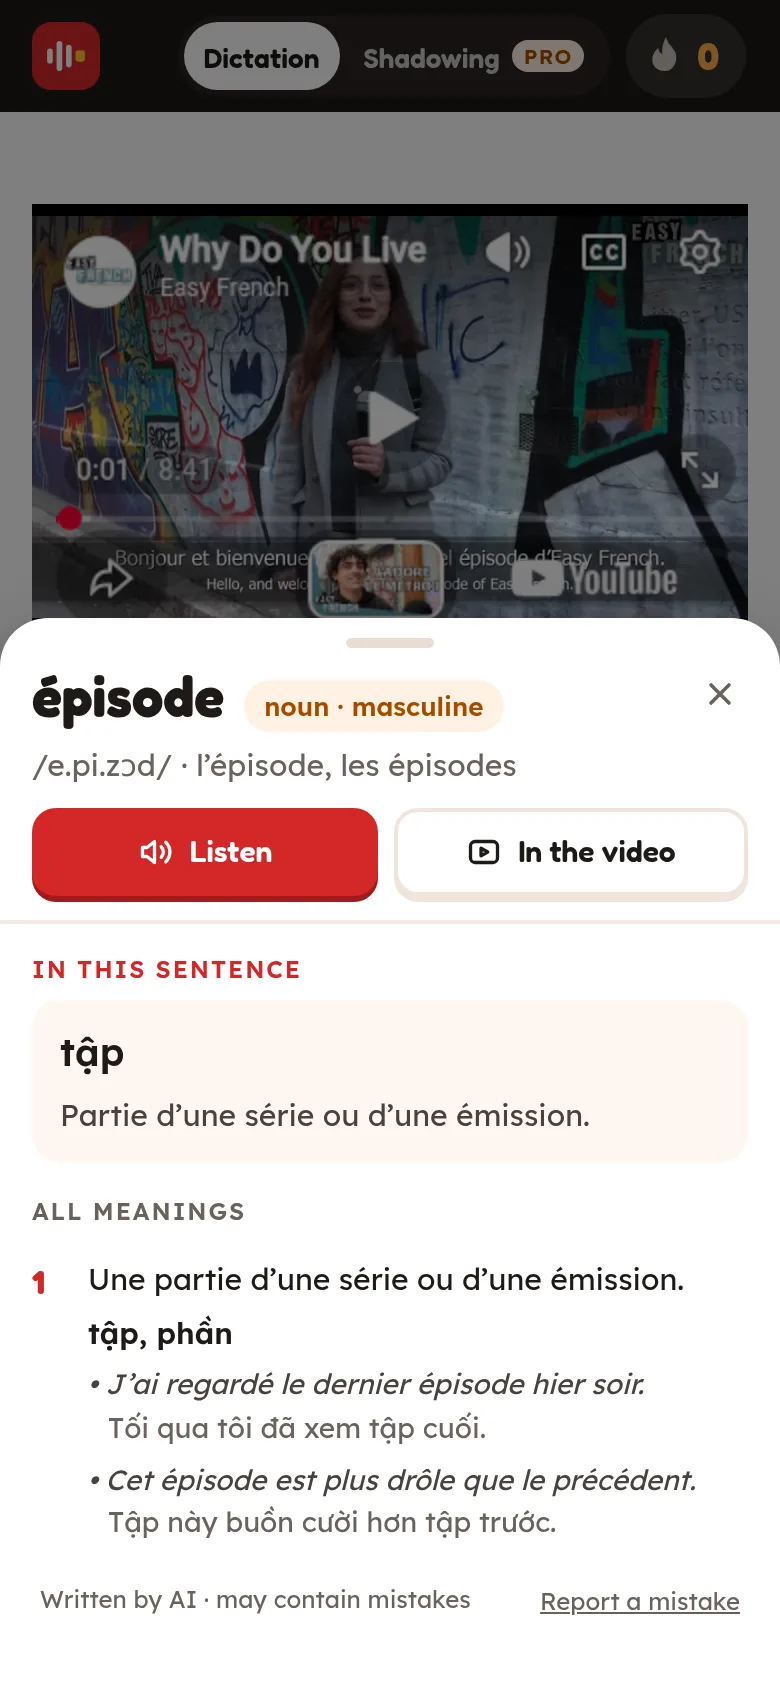
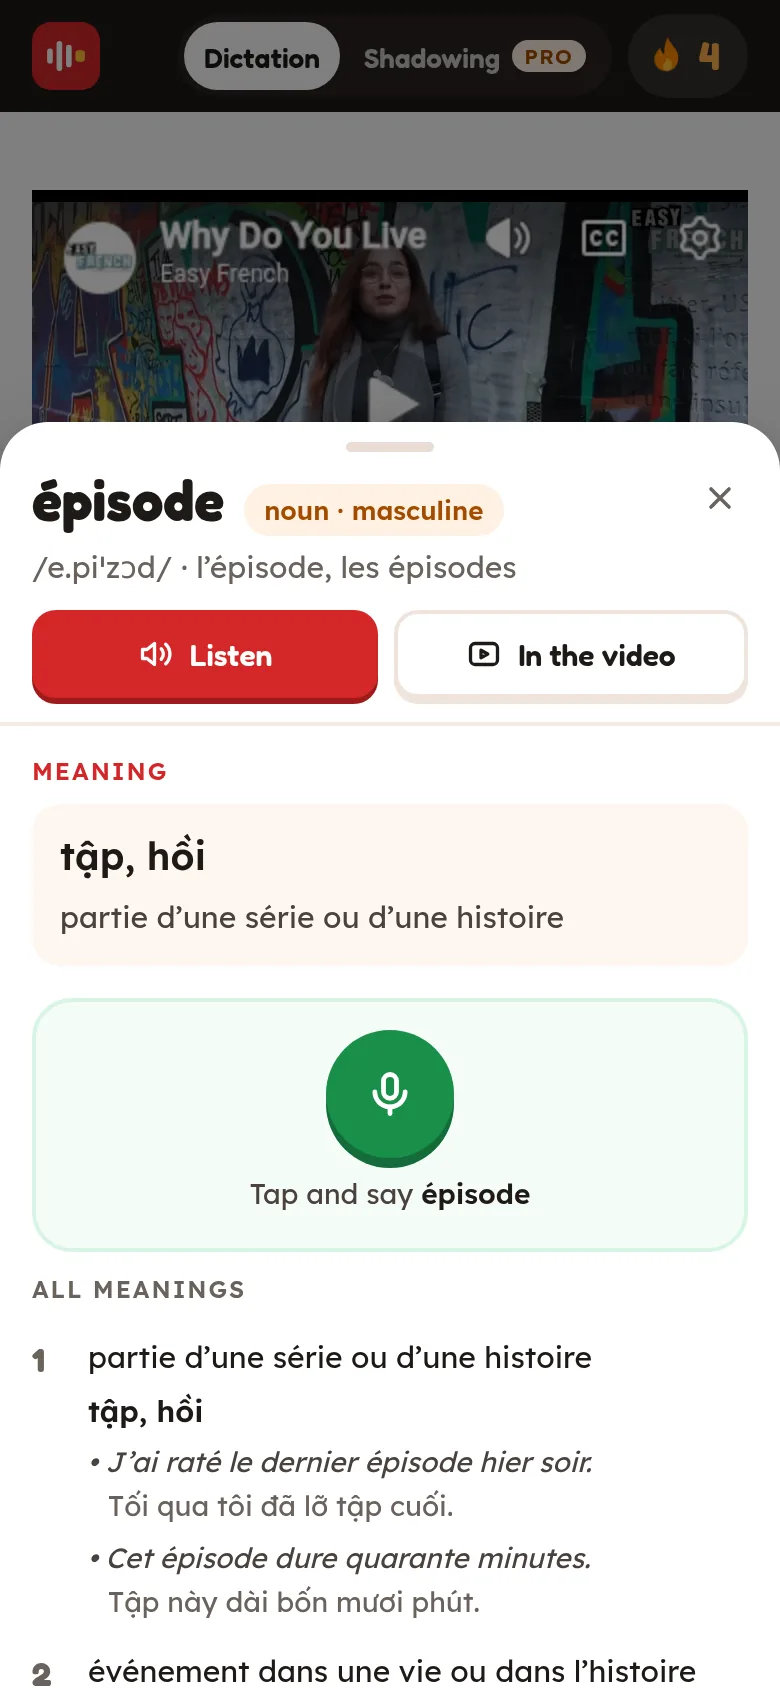
Add Say it to Look up a word, and show the panel on the right
The word card now has Say it: say the word, get a score for how easily it
was understood (85+ Great, 70-84 Good, under 70 Try again), play Yours
and Say it again. On a computer the dictionary is a panel on the right
over the darkened lesson. Shots retaken on the live site; FAQ entry on
what the score means.

diff --git a/src/pages/look-up-a-word.html b/src/pages/look-up-a-word.html
@@ -1,23 +1,24 @@
-<!-- {"title": "Look up a word", "description": "With Pro, tap any word of a sentence you have finished to hear it, see what it means in that sentence in your language, and read its dictionary entry with examples.", "time": "1 minute"} -->
+<!-- {"title": "Look up a word", "description": "With Pro, tap any word of a sentence you have finished to hear it, see what it means in your language, say it yourself and get a score, and read its dictionary entry with examples.", "time": "2 minutes"} -->
 <div class="not-prose my-8 flex items-center gap-5 rounded-3xl bg-cream p-6 shadow-edge-card dark:bg-gray-900 dark:shadow-none">
     <span class="float text-6xl" aria-hidden="true">📖</span>
     <div>
         <p class="font-display text-2xl font-bold text-ink dark:text-white">A dictionary inside every sentence.</p>
-        <p class="mt-1 text-lg text-gray-700 dark:text-gray-300">Tap a word: hear it, see what it means here, in your language, and how else it is used.</p>
+        <p class="mt-1 text-lg text-gray-700 dark:text-gray-300">Tap a word: hear it, see what it means in your language, say it yourself, and see how else it is used.</p>
     </div>
 </div>
 
 <div class="callout callout-tip"><span class="callout-icon">⭐</span><div><strong>A Pro feature.</strong> Looking up words is part of <a href="https://dictationdaily.com/pro">Pro</a>. Signed out, the card asks you to sign in; on the free plan it offers <strong>Join the Pro waitlist</strong>, and Pro is switched on for your account when it opens.</div></div>
 
 <h2>Tap a word</h2>
-<p>When you have finished a sentence (in Dictation, once it is correct; in Shadowing, once your take is checked, or on a line you did before), every word in it can be tapped. While a Shadowing line plays or you are speaking, its words can't be tapped, so nothing stops the line or the microphone. A small card opens next to the word, with the word marked in red.</p>
-<shot src="word-card" caption="épisode in a French lesson, for a learner who speaks Vietnamese." alt="A lesson with the word épisode marked in red and a card next to it: noun, masculine, its pronunciation, Listen and In the video buttons, the meaning in this sentence in Vietnamese, and its meanings with examples">
+<p>When you have finished a sentence (in Dictation, once it is correct; in Shadowing, once your take is checked, or on a line you did before), every word in it can be tapped. While a Shadowing line plays or you are speaking, its words can't be tapped, so nothing stops the line or the microphone. On a computer, the dictionary opens as a panel on the right. The lesson behind it goes darker but doesn't move, so you are back exactly where you were when you close it.</p>
+<shot src="word-card" caption="épisode in a French lesson, for a learner who speaks Vietnamese." alt="A lesson, darkened, with a panel on the right for the word épisode: noun, masculine, its pronunciation, Listen and In the video buttons, its meaning in Vietnamese, a green box with a microphone saying Tap and say épisode, and all its meanings with examples">
 
 <h2>What the card shows</h2>
 <div class="cards not-prose">
     <div class="card"><p class="card-icon">🔤</p><p class="card-title">The word</p><p class="card-text">The word as a dictionary lists it, what kind of word it is (and whether a noun is masculine or feminine), how to say it in IPA, and the forms you need: the article and plural, or a verb's main forms.</p></div>
     <div class="card"><p class="card-icon">🔊</p><p class="card-title">Hear it</p><p class="card-text"><strong>Listen</strong> says the word clearly. <strong>In the video</strong> plays the moment the speaker says it, then goes back to where you were.</p></div>
-    <div class="card"><p class="card-icon">🎯</p><p class="card-title">In this sentence</p><p class="card-text">What the word means <em>here</em>, in your language, with a simple explanation in the language you are learning.</p></div>
+    <div class="card"><p class="card-icon">🎯</p><p class="card-title">Meaning</p><p class="card-text">What the word means, in your language, with a simple explanation in the language you are learning.</p></div>
+    <div class="card"><p class="card-icon">🎙</p><p class="card-title">Say it</p><p class="card-text">Say the word yourself and see how easily it was understood. <a href="#say-it">More below</a>.</p></div>
     <div class="card"><p class="card-icon">📚</p><p class="card-title">All meanings</p><p class="card-text">The word's common meanings, each with two short examples and their translations. The meaning used in your sentence has a red number.</p></div>
 </div>
 
@@ -25,12 +26,25 @@
 
 <div class="callout callout-tip"><span class="callout-icon">💡</span><div><strong>Small words and expressions.</strong> In French and Italian, “l'homme” or “dell'anno” are two taps: the article and the word. A word that is part of an expression, like “pick … up” or “fängt … an”, is looked up as the whole expression.</div></div>
 
+<h2 id="say-it">Say it</h2>
+<p>Under the meaning there is a green box with a microphone. Tap it and say just the word, once. Recording stops by itself when you go quiet. A moment later you see the word and a score from 1 to 100:</p>
+<div class="cards not-prose">
+    <div class="card"><p class="card-icon">🟢</p><p class="card-title">85 and up: Great</p><p class="card-text">“Easy to understand.”</p></div>
+    <div class="card"><p class="card-icon">🟢</p><p class="card-title">70 to 84: Good</p><p class="card-text">“Understood.”</p></div>
+    <div class="card"><p class="card-icon">🟠</p><p class="card-title">Under 70: Try again</p><p class="card-text">“Hard to understand. Listen, then try again.”</p></div>
+</div>
+<shot src="say-it-result" caption="Saying épisode: 92, Great." alt="The Say it box on the word panel: épisode in green, a green bar with 92 and Great, Easy to understand, and the buttons Yours and Say it again">
+<p><strong>Yours</strong> plays your recording, so you can compare it with <strong>Listen</strong> (the word said clearly) and <strong>In the video</strong> (the speaker). <strong>Say it again</strong> records a new try. If you didn't say anything, the box says <em>We didn't hear anything</em> and nothing is counted.</p>
+<div class="callout callout-tip"><span class="callout-icon">💡</span><div><strong>What the score means.</strong> A speech-to-text model listens to your recording, and the score is how sure it was of what it heard. A high score means you were easy to understand. It is <strong>not</strong> an accent grade: a clear word with an accent can still score well, and saying it softly, too fast or far from the microphone lowers the score. To work on how it sounds, play <strong>Yours</strong> right after <strong>Listen</strong> and copy what you hear.</div></div>
+<p>The first time, your browser asks to use the microphone. If you said no, the box says <strong>Allow the microphone</strong>: allow it in your browser's site settings and try again. Say it shares its daily number of checks with <a href="shadowing.html">Shadowing</a>. Your recording is checked and then dropped: nothing is stored, and nobody listens to it.</p>
+
 <h2>While the card is open</h2>
 <p>The video pauses and the lesson's keys wait, so <kbd class="kbd">Space</kbd> doesn't move you on by mistake. <kbd class="kbd">Esc</kbd>, the ✕, or a click outside closes the card, and you carry on where you were.</p>
 
 <h2>On your phone</h2>
-<p>On a phone the card slides up from the bottom of the screen. Swipe it down or tap above it to close it.</p>
-<shot src="mobile-word-card" caption="The same card on a phone." alt="The word card as a sheet at the bottom of a phone screen, with Listen and In the video buttons, the meaning in this sentence and the word's meanings with examples">
+<p>On a phone the card slides up from the bottom of the screen. Swipe it down or tap above it to close it. In Say it, <strong>Yours</strong> and <strong>Say it again</strong> are the round ear and microphone buttons.</p>
+<shot src="mobile-word-card" caption="The same card on a phone." alt="The word card as a sheet at the bottom of a phone screen, with Listen and In the video buttons, the meaning in Vietnamese, the Say it box with a microphone, and the word's meanings with examples">
+<shot src="mobile-say-it-result" caption="Say it on a phone: the ear plays your recording, the microphone records again." alt="The Say it box on a phone: épisode in green, a bar with 92 and Great, Easy to understand, a round ear button and a round green microphone button">
 
 <h2>Without Pro</h2>
 <p>On the free plan, tapping a word opens a short card instead: the word with a PRO badge, <strong>Upgrade to Pro to look up words</strong> and a <strong>Join the Pro waitlist</strong> button. Once you have joined, it says <strong>On the waitlist</strong>.</p>

diff --git a/src/pages/faq.html b/src/pages/faq.html
@@ -31,6 +31,7 @@
     <details class="faq" data-faq id="red-line"><summary>What is the red line under the gap?</summary><div class="answer"><p>It fills while the missing words are spoken. So you know where your part starts and ends.</p></div></details>
     <details class="faq" data-faq id="subtitles"><summary>Can I turn on subtitles?</summary><div class="answer"><p>No. Subtitles are always off, so you really listen. When you get a sentence right, you see all the words, and its translation if you are signed in.</p></div></details>
     <details class="faq" data-faq id="translation"><summary>Where is the translation?</summary><div class="answer"><p>Under each sentence you finish, in your language, when you are <a href="save-progress.html">signed in</a>. Not signed in, it says <strong>Sign in to view translation</strong>. Change your language under <strong>Settings › Languages</strong>. <a href="languages.html">More</a>.</p></div></details>
+    <details class="faq" data-faq id="say-it-score"><summary>What does the Say it score mean?</summary><div class="answer"><p>How easily a speech-to-text model understood the word you said: 85 and up is Great, 70 to 84 Good, under 70 Try again. It is not an accent grade. Speak clearly, close to the microphone, and compare <strong>Yours</strong> with <strong>Listen</strong>. <a href="look-up-a-word.html#say-it">More about Say it</a>.</p></div></details>
     <details class="faq" data-faq id="word-meaning"><summary>What does this word mean?</summary><div class="answer"><p>With Pro, tap it. A card shows what it means here, in your language, says it, and gives its dictionary entry. <a href="look-up-a-word.html">See how</a>.</p></div></details>
     <details class="faq" data-faq id="stopped"><summary>The sentence stopped playing.</summary><div class="answer"><p>It plays 3 times, then waits. Press <span class="btn-ui">Replay</span> or <kbd class="kbd">Tab</kbd> to hear it again.</p></div></details>
     <details class="faq" data-faq id="forward-grey"><summary>The ▶ arrow is grey.</summary><div class="answer"><p>Get the sentence right first. Or press <span class="btn-ui">Skip</span>.</p></div></details>
